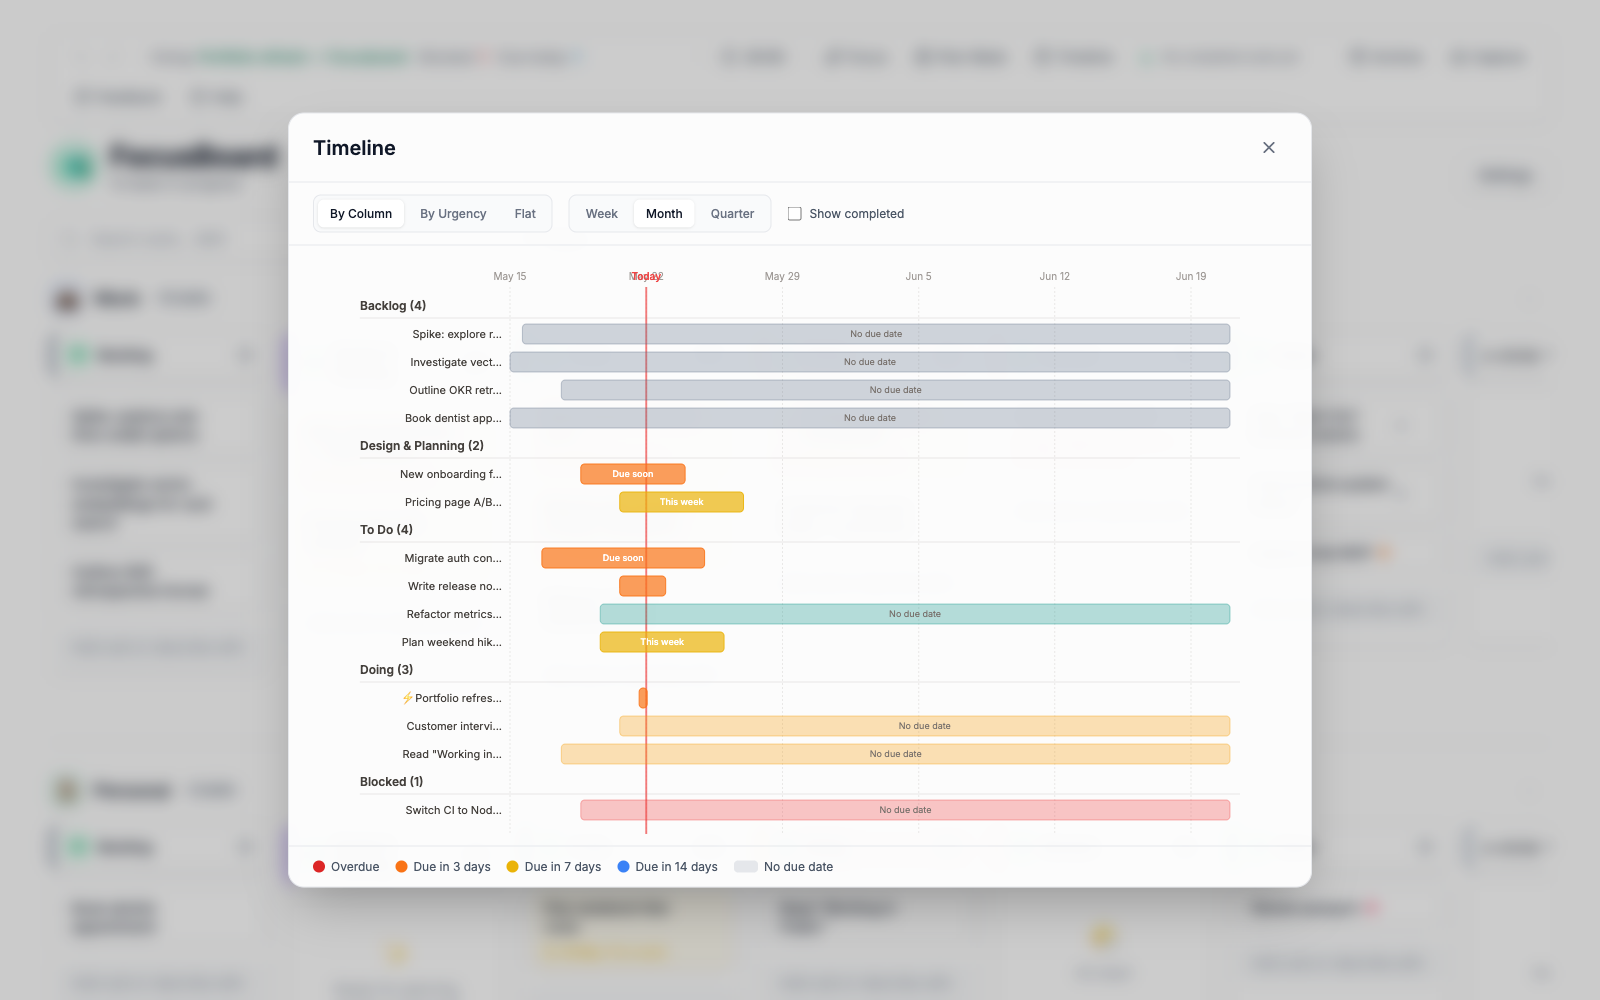
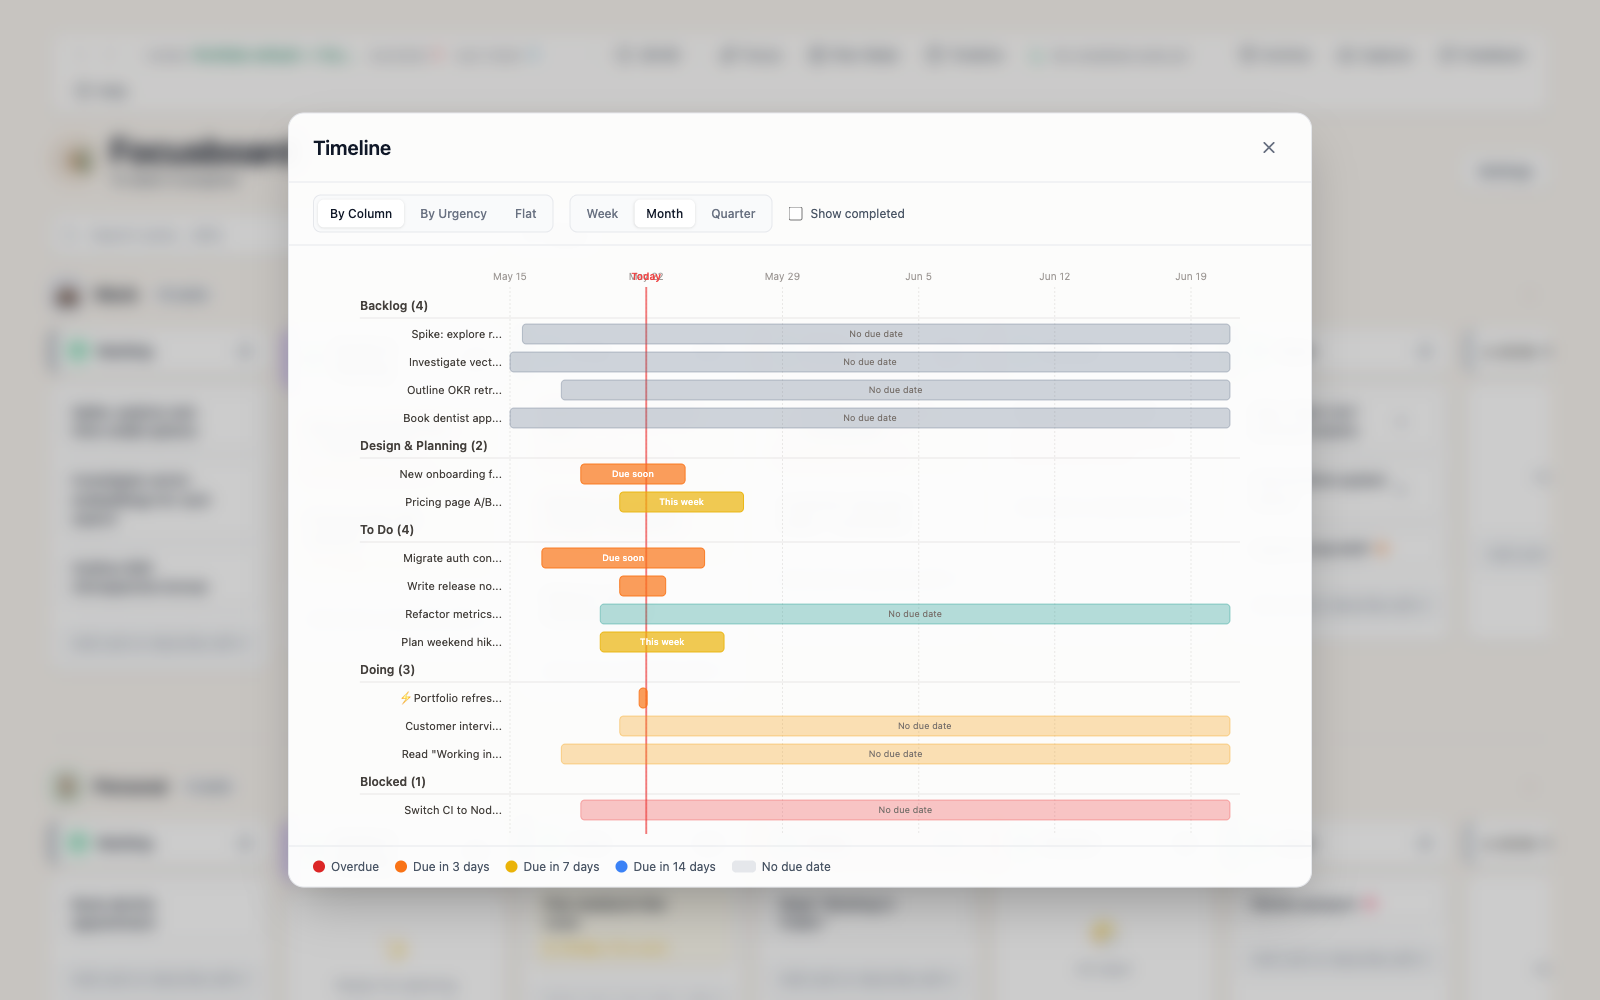
feat: adopt Roami "Deep Tay" palette and refresh visual identity
Confident redesign pass — moves Focusboard away from the default
emerald/teal SaaS look and into the Roami brand system. Kinfolk-meets-
bothy: warm cream backgrounds, copper accents, Playfair Display for the
wordmark, ink/tay for dark mode.

Approach:
- Remap Tailwind's emerald and gray colour scales to Roami copper and
  warm neutrals via Tailwind v4 @user directive in index.css. This
  re-skins all 183 existing emerald-*/gray-* class usages in one shot
  without component-by-component edits.
- Load Playfair Display for the brand wordmark; use it via the
  .display-font utility on the "Focusboard" header.
- Refresh the SVG logo to match the new palette (cream + copper ring,
  stone/copper/pine columns).
- Tighten the top toolbar: status pills get small uppercase labels
  (DOING / BLOCKED / DUE TODAY) for clearer hierarchy. Backdrop blur
  on the bar adds depth against the cream background.
- Unify naming: "FocusBoard" → "Focusboard" everywhere (wordmark,
  onboarding, tooltips, tests).
- Update README screenshots with the new look.

Tests: updated Board.test.tsx expectations for "Doing" and "Blocked"
text occurrences (now appear in TopStrip status labels as well as the
column headers). 585/585 passing.

diff --git a/src/index.css b/src/index.css
@@ -1,41 +1,78 @@
 @import "tailwindcss";
-@import url("https://fonts.googleapis.com/css2?family=Inter:wght@400;500;600;700&display=swap");
+@import url("https://fonts.googleapis.com/css2?family=Playfair+Display:wght@500;600;700&family=Inter:wght@400;500;600;700&display=swap");
 @custom-variant dark (&:where(.dark, .dark *));
+
+/* =====================================================================
+   Roami "Deep Tay" palette mapped into Tailwind's emerald/gray scales.
+   This re-skins every existing emerald-*/gray-* class to the Roami
+   brand without touching component files.
+   ===================================================================== */
+@theme {
+  /* Brand accent — replaces Tailwind emerald with Roami copper. */
+  --color-emerald-50:  #faf2e9;
+  --color-emerald-100: #f3e1cb;
+  --color-emerald-200: #e6c8a3;
+  --color-emerald-300: #d8ae7f;
+  --color-emerald-400: #cc9c6f;
+  --color-emerald-500: #c4956a; /* roami-copper — primary accent */
+  --color-emerald-600: #a87d55; /* roami-copper-dark */
+  --color-emerald-700: #8a6543;
+  --color-emerald-800: #6b4d33;
+  --color-emerald-900: #4a3624;
+
+  /* Warm neutrals — replaces Tailwind gray with Roami warm scale. */
+  --color-gray-50:  #faf6f1; /* roami-cream */
+  --color-gray-100: #f0eee8; /* roami-mist */
+  --color-gray-200: #e0d9cf; /* roami-stone */
+  --color-gray-300: #c4bdb2;
+  --color-gray-400: #a89880; /* roami-sand */
+  --color-gray-500: #8a7d6b;
+  --color-gray-600: #6b5d4f; /* roami-umber */
+  --color-gray-700: #4a3f35;
+  --color-gray-800: #2d2a26; /* roami-heading */
+  --color-gray-900: #111a24; /* roami-ink */
+
+  /* Fonts. */
+  --font-sans: "Inter", ui-sans-serif, system-ui, -apple-system,
+    BlinkMacSystemFont, "Segoe UI", sans-serif;
+  --font-display: "Playfair Display", Georgia, "Times New Roman", serif;
+}
 
 :root {
   color-scheme: light;
 
-  /* Neutrals (slightly warmer gray) */
-  --neutral-50: #f9fafb;
-  --neutral-100: #f3f4f6;
-  --neutral-200: #e5e7eb;
-  --neutral-300: #d1d5db;
-  --neutral-400: #9ca3af;
-  --neutral-500: #6b7280;
-  --neutral-600: #4b5563;
-  --neutral-700: #374151;
-  --neutral-800: #1f2937;
-  --neutral-900: #111827;
+  /* Roami palette — direct CSS custom properties for components that
+     need brand colours outside the Tailwind class system. */
+  --roami-ink: #111a24;
+  --roami-tay: #1a2832;
+  --roami-midnight: #0d141c;
+  --roami-river: #2a5a5a;
+  --roami-copper: #c4956a;
+  --roami-copper-dark: #a87d55;
+  --roami-pine: #5a7247;
+  --roami-cream: #faf6f1;
+  --roami-mist: #f0eee8;
+  --roami-stone: #e0d9cf;
+  --roami-sand: #a89880;
+  --roami-umber: #6b5d4f;
+  --roami-heading: #2d2a26;
+  --roami-sage: #6a8a8a;
+  --roami-error: #a04040;
 
-  /* Accent (Emerald/Teal - Masterplan style) */
-  --accent-400: #34d399;
-  --accent-500: #10b981;
-  --accent-600: #059669;
+  /* Semantic. */
+  --success: var(--roami-pine);
+  --warning: var(--roami-copper);
+  --error: var(--roami-error);
 
-  /* Semantic */
-  --success: #10b981;
-  --warning: #f59e0b;
-  --error: #ef4444;
+  /* Shadows (warm undertone). */
+  --shadow-sm: 0 1px 2px rgba(17, 26, 36, 0.06);
+  --shadow-md: 0 4px 8px rgba(17, 26, 36, 0.08);
+  --shadow-lg: 0 12px 24px rgba(17, 26, 36, 0.12);
+  --shadow-xl: 0 24px 48px rgba(17, 26, 36, 0.16);
 
-  /* Shadows (softer) */
-  --shadow-sm: 0 1px 2px rgba(0,0,0,0.04);
-  --shadow-md: 0 4px 6px rgba(0,0,0,0.05);
-  --shadow-lg: 0 10px 20px rgba(0,0,0,0.06);
-  --shadow-xl: 0 20px 40px rgba(0,0,0,0.08);
-
-  font-family: "Inter", ui-sans-serif, system-ui, -apple-system, BlinkMacSystemFont, sans-serif;
-  background-color: #f3f4f6;
-  color: var(--neutral-900);
+  font-family: var(--font-sans);
+  background-color: var(--roami-cream);
+  color: var(--roami-heading);
 }
 
 html,
@@ -46,13 +83,13 @@ body,
 
 body {
   margin: 0;
-  background: #f3f4f6;
+  background: var(--roami-cream);
 }
 
 .dark body,
 body.dark,
 .dark {
-  background: #111827;
+  background: var(--roami-ink);
   color-scheme: dark;
 }
 
@@ -74,12 +111,12 @@ body.dark,
 .bg-scrim {
   position: absolute;
   inset: 0;
-  background: rgba(255, 255, 255, 0.9);
+  background: rgba(250, 246, 241, 0.92);
   z-index: 1;
 }
 
 .dark .bg-scrim {
-  background: rgba(17, 24, 39, 0.95);
+  background: rgba(17, 26, 36, 0.95);
 }
 
 .app-shell {
@@ -87,10 +124,7 @@ body.dark,
   z-index: 3;
 }
 
-.orb {
-  display: none;
-}
-
+.orb,
 .orb-1,
 .orb-2,
 .orb-3 {
@@ -102,22 +136,24 @@ body.dark,
   inset: 0;
   background-image: repeating-linear-gradient(
     0deg,
-    rgba(0, 0, 0, 0.01) 0px,
-    rgba(0, 0, 0, 0.01) 1px,
+    rgba(17, 26, 36, 0.012) 0px,
+    rgba(17, 26, 36, 0.012) 1px,
     transparent 1px,
     transparent 2px
   );
-  opacity: 0.15;
+  opacity: 0.6;
   pointer-events: none;
   z-index: 2;
 }
 
+/* Playfair Display wordmark — used for the Focusboard branding. */
 .display-font {
-  font-family: "Inter", ui-sans-serif, system-ui, sans-serif;
-  letter-spacing: -0.01em;
+  font-family: var(--font-display);
+  font-weight: 600;
+  letter-spacing: -0.015em;
 }
 
-/* Date input styling - ensure calendar picker is visible and clickable */
+/* Date input styling — keep the calendar picker visible. */
 input[type="date"] {
   position: relative;
   cursor: pointer;
@@ -134,7 +170,7 @@ input[type="date"]::-webkit-calendar-picker-indicator {
 
 input[type="date"]::-webkit-calendar-picker-indicator:hover {
   opacity: 1;
-  background-color: rgba(16, 185, 129, 0.1);
+  background-color: rgba(196, 149, 106, 0.12); /* roami-copper @ 12% */
 }
 
 .dark input[type="date"]::-webkit-calendar-picker-indicator {

diff --git a/src/components/TopStrip.tsx b/src/components/TopStrip.tsx
@@ -46,39 +46,41 @@ export function TopStrip({
   onRedo: () => void;
 }) {
   return (
-    <div className="mb-4 flex flex-wrap items-center gap-3 rounded-xl border border-gray-200 bg-white px-4 py-2.5 text-sm text-gray-700 shadow-sm dark:border-gray-700 dark:bg-gray-800 dark:text-gray-300">
-      <div className="flex items-center gap-1">
+    <div className="mb-4 flex flex-wrap items-center gap-x-3 gap-y-2 rounded-xl border border-gray-200 bg-white/80 px-4 py-2 text-sm text-gray-700 shadow-sm backdrop-blur dark:border-gray-700 dark:bg-gray-800/80 dark:text-gray-300">
+      <div className="flex items-center gap-0.5">
         <button
           onClick={onUndo}
           disabled={!canUndo}
-          className="rounded-lg p-1.5 text-gray-500 transition hover:bg-gray-100 hover:text-gray-700 disabled:cursor-not-allowed disabled:opacity-40 disabled:hover:bg-transparent dark:text-gray-400 dark:hover:bg-gray-700 dark:hover:text-gray-200"
+          className="rounded-md p-1.5 text-gray-500 transition hover:bg-gray-100 hover:text-gray-700 disabled:cursor-not-allowed disabled:opacity-30 disabled:hover:bg-transparent dark:text-gray-400 dark:hover:bg-gray-700 dark:hover:text-gray-200"
           title="Undo (Cmd+Z)"
           aria-label="Undo"
         >
-          <Undo2 size={16} />
+          <Undo2 size={15} />
         </button>
         <button
           onClick={onRedo}
           disabled={!canRedo}
-          className="rounded-lg p-1.5 text-gray-500 transition hover:bg-gray-100 hover:text-gray-700 disabled:cursor-not-allowed disabled:opacity-40 disabled:hover:bg-transparent dark:text-gray-400 dark:hover:bg-gray-700 dark:hover:text-gray-200"
+          className="rounded-md p-1.5 text-gray-500 transition hover:bg-gray-100 hover:text-gray-700 disabled:cursor-not-allowed disabled:opacity-30 disabled:hover:bg-transparent dark:text-gray-400 dark:hover:bg-gray-700 dark:hover:text-gray-200"
           title="Redo (Cmd+Shift+Z)"
           aria-label="Redo"
         >
-          <Redo2 size={16} />
+          <Redo2 size={15} />
         </button>
       </div>
-      <div className="h-4 w-px bg-gray-200 dark:bg-gray-600" />
-      <div className="text-sm text-gray-700 dark:text-gray-300">
-        <span className="text-gray-500 dark:text-gray-400">Doing:</span>{" "}
-        <span className="font-medium text-emerald-700 dark:text-emerald-400">{doingCard ? doingCard.title : "None"}</span>
-      </div>
-      <div className="text-sm text-gray-700 dark:text-gray-300">
-        <span className="text-gray-500 dark:text-gray-400">Blocked:</span>{" "}
-        <span className={blockedCount > 0 ? "font-medium text-red-600 dark:text-red-400" : ""}>{blockedCount}</span>
-      </div>
-      <div className="text-sm text-gray-700 dark:text-gray-300">
-        <span className="text-gray-500 dark:text-gray-400">Due today:</span>{" "}
-        <span className={dueTodayCount > 0 ? "font-medium text-sky-600 dark:text-sky-400" : ""}>{dueTodayCount}</span>
+      <div className="h-5 w-px bg-gray-200 dark:bg-gray-600" />
+      <div className="flex items-center gap-4">
+        <div className="flex items-baseline gap-1.5">
+          <span className="text-[11px] uppercase tracking-wider text-gray-500 dark:text-gray-400">Doing</span>
+          <span className="max-w-[18ch] truncate font-medium text-emerald-700 dark:text-emerald-400">{doingCard ? doingCard.title : "—"}</span>
+        </div>
+        <div className="flex items-baseline gap-1.5">
+          <span className="text-[11px] uppercase tracking-wider text-gray-500 dark:text-gray-400">Blocked</span>
+          <span className={blockedCount > 0 ? "font-medium text-red-600 dark:text-red-400" : "text-gray-700 dark:text-gray-300"}>{blockedCount}</span>
+        </div>
+        <div className="flex items-baseline gap-1.5">
+          <span className="text-[11px] uppercase tracking-wider text-gray-500 dark:text-gray-400">Due today</span>
+          <span className={dueTodayCount > 0 ? "font-medium text-sky-600 dark:text-sky-400" : "text-gray-700 dark:text-gray-300"}>{dueTodayCount}</span>
+        </div>
       </div>
       {metrics.currentStreak > 0 && (
         <div
@@ -222,7 +224,7 @@ function HelpMenu({
               <BookOpen size={16} className="text-emerald-600 dark:text-emerald-400" />
               <div>
                 <div className="font-medium">Getting Started</div>
-                <div className="text-xs text-gray-500 dark:text-gray-400">Learn how to use FocusBoard</div>
+                <div className="text-xs text-gray-500 dark:text-gray-400">Learn how to use Focusboard</div>
               </div>
             </button>
           )}

diff --git a/src/components/Board.test.tsx b/src/components/Board.test.tsx
@@ -42,20 +42,21 @@ describe("Board", () => {
     it("renders all default columns", () => {
       render(<Board {...defaultProps} />);
 
-      // With swimlanes, each column appears twice (once per swimlane)
+      // With swimlanes, each column appears twice (once per swimlane).
+      // "Doing" and "Blocked" also appear as status labels in TopStrip.
       expect(screen.getAllByText("Backlog")).toHaveLength(2);
       expect(screen.getAllByText("Design & Planning")).toHaveLength(2);
       expect(screen.getAllByText("To Do")).toHaveLength(2);
-      expect(screen.getAllByText("Doing")).toHaveLength(2);
-      expect(screen.getAllByText("Blocked")).toHaveLength(2);
+      expect(screen.getAllByText("Doing")).toHaveLength(3);
+      expect(screen.getAllByText("Blocked")).toHaveLength(3);
       expect(screen.getAllByText("Done")).toHaveLength(2);
     });
 
-    it("renders FocusBoard header", () => {
+    it("renders Focusboard header", () => {
       render(<Board {...defaultProps} />);
 
-      // Header shows FocusBoard branding
-      const header = screen.getByText("FocusBoard");
+      // Header shows Focusboard branding
+      const header = screen.getByText("Focusboard");
       expect(header).toBeInTheDocument();
     });
 

diff --git a/src/components/Board.tsx b/src/components/Board.tsx
@@ -479,14 +479,14 @@ export function Board({
       <div className="mb-4 flex flex-wrap items-end justify-between gap-3 sm:mb-6">
         <div>
           <div className="flex items-center gap-3">
-            <img src="/logo.svg" alt="FocusBoard" className="h-10 w-10 sm:h-12 sm:w-12" />
+            <img src="/logo.svg" alt="Focusboard" className="h-10 w-10 sm:h-12 sm:w-12" />
             <div>
-              <div className="text-2xl font-bold tracking-tight text-gray-900 dark:text-white sm:text-3xl">
-                FocusBoard
-              </div>
-              <div className="text-sm text-gray-500 dark:text-gray-400">
+              <h1 className="display-font text-3xl text-gray-900 dark:text-white sm:text-4xl">
+                Focusboard
+              </h1>
+              <div className="text-sm text-gray-600 dark:text-gray-300">
                 {pendingCount === 0
-                  ? "No tasks pending. Time to plan your next goal!"
+                  ? "No tasks pending. Time to plan your next goal."
                   : `${pendingCount} tasks in progress`}
               </div>
             </div>

diff --git a/src/components/OnboardingModal.tsx b/src/components/OnboardingModal.tsx
@@ -3,7 +3,7 @@ import { motion, AnimatePresence } from "framer-motion";
 
 const STEPS = [
   {
-    title: "Welcome to FocusBoard",
+    title: "Welcome to Focusboard",
     emoji: "👋",
     description: "Your AI-powered kanban board for staying focused and getting things done. Let's walk through how to get the most out of it!",
   },